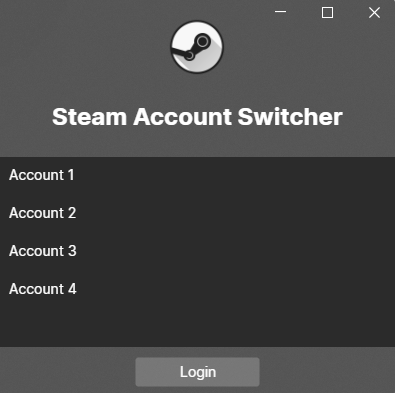
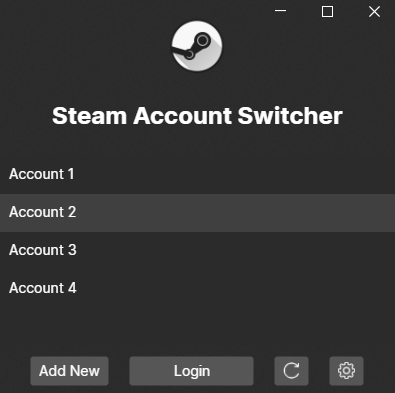
Update readme.md

diff --git a/README.md b/README.md
@@ -1,13 +1,30 @@
 <h1 align="center"> 
- Steam Account Switcher 
+  Steam Account Switcher 
 </h1>
 
-<p align="center">
-  <img src="demo.png" alt="logo"/>
-</p>
+Fast account switcher for Steam. Switch accounts without entering your credentials or 2FA code. **Does not store any kind of user information or passwords**.
 
-Fast account switcher for Steam. **Does not store any kind of user information or passwords**.
+**Requires to be ran as administrator**
 
-**Requires to be ran as administrator:exclamation:**
+## Downloads
 
-Lightweight and portable version that requires no installation.
+See [Releases](https://github.com/GuilhermeRaposo/Steam-Account-Switcher/releases) in the sidebar.
+
+## Screenshots
+
+![demo](demo.png)
+
+## FAQ
+
+#### How does it work?
+
+1. It reads "/steampath/config/loginusers.vdf" to display all the accounts previously used on the machine.
+2. Then edits the same file by changing the "MostRecent" field to "1" for the account selected.
+3. Updates the registry value at "HKEY_CURRENT_USER\Software\Valve\Steam\AutoLoginUser" to the username.
+4. And finally it ends the Steam process and restarts it again.
+
+- To Steam it's like you never logged out in the first place
+
+#### It asks for a password/2FA code after I make the switch
+
+That is because you previously logged out using the steam client. The "Add New" button should be used to sign out as well as to add new accounts to the app.
